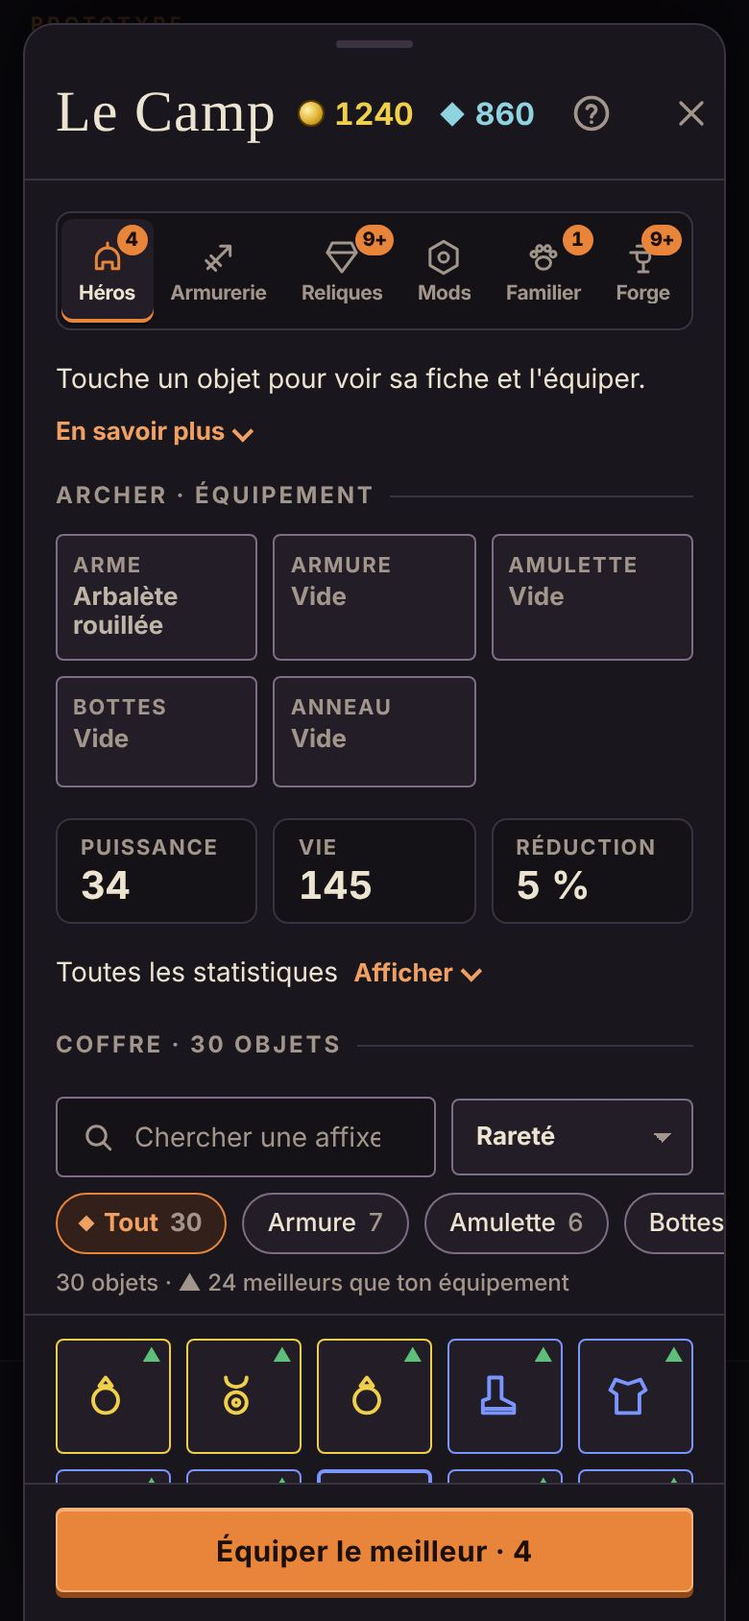
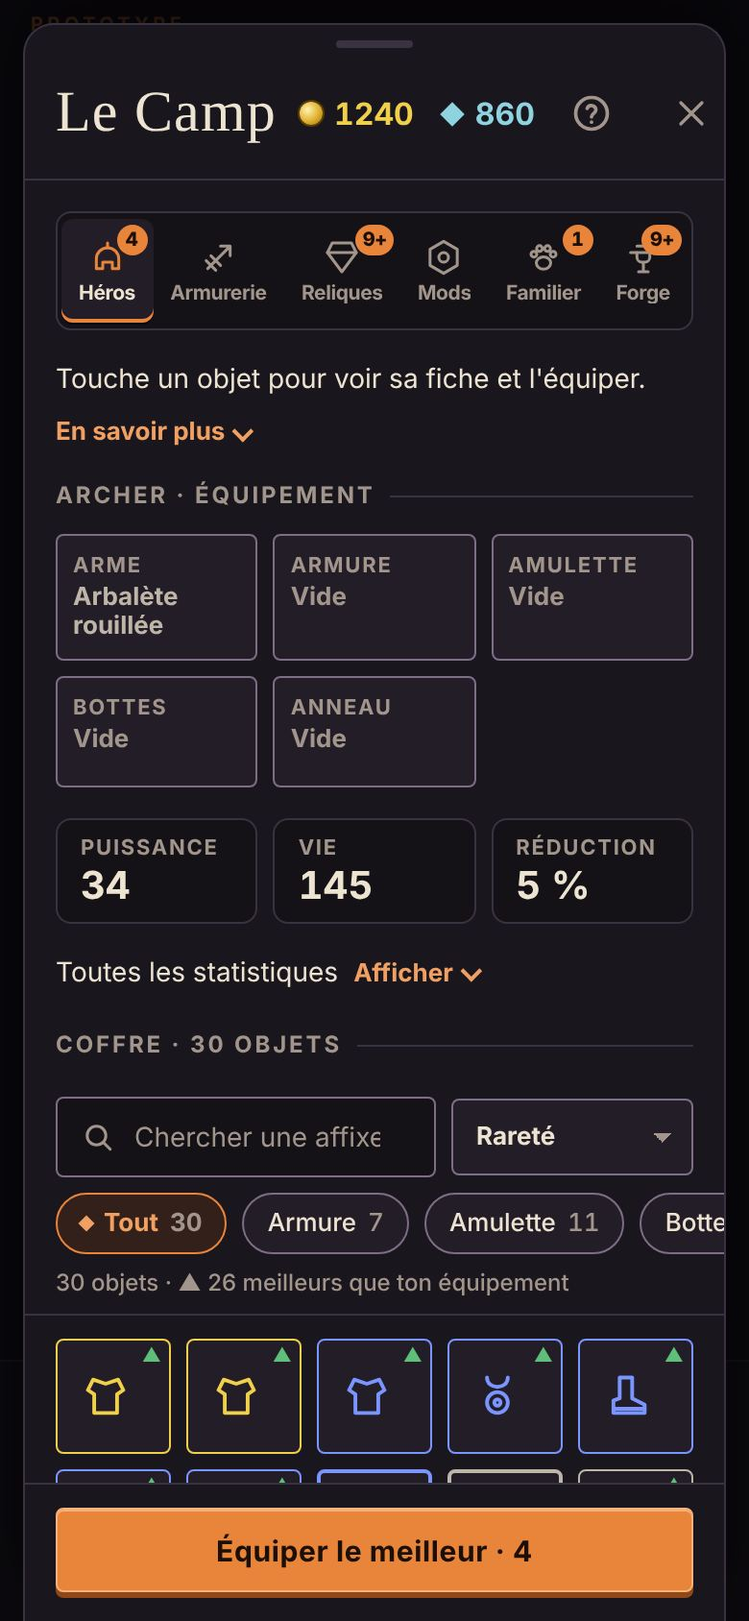
v88-89 : comparaison affixe par affixe ; armes dans le coffre (verrouiller, améliorer, recycler depuis Héros)

diff --git a/js/inv.js b/js/inv.js
@@ -7,19 +7,24 @@ const norm=t=>String(t).normalize('NFD').replace(/[̀-ͯ]/g,'').toLowerCase();
 function invMatch(it,q){if(!q)return true;const n=norm(q);
   if(norm(itemName(it)).includes(n)||norm(it.type||'').includes(n)||norm(SLOT[it.slot]).includes(n)||norm(RAR[it.r].n).includes(n))return true;
   for(const k in it.aff){if(norm(AFF_NAME[k]||k).includes(n)||norm(AFF[k].t(it.aff[k])).includes(n))return true}return false}
-function invList(){return meta.stash.filter(i=>(stF==='all'||i.slot===stF)&&invMatch(i,invQ)).sort(invSortFn[stS]||invSortFn.rar)}
+// Armes possédées non portées, présentées comme des objets du coffre (verrouillables, améliorables, recyclables).
+function invWeapons(){const out=[];for(const c of [heroCls,...Object.keys(CLS).filter(x=>x!==heroCls)])for(const w of WPN[c])if(ownedW(w.id)&&curWid(c)!==w.id)out.push(weaponItem(c,w.id));return out}
+const selOf=it=>it.wid?{wpn:it.wid}:{stash:it.id};
+const isSel=it=>!!campSel&&(it.wid?campSel.wpn===it.wid:campSel.stash===it.id);
+function invList(kind){const st=meta.stash.filter(i=>(stF==='all'||i.slot===stF)&&invMatch(i,invQ));const ws=kind==='affix'||!(stF==='all'||stF==='arme')?[]:invWeapons().filter(i=>invMatch(i,invQ));
+  const nid=i=>i.wid?-1:i.id;const f=invSortFn[stS]||invSortFn.rar;return [...st,...ws].sort(stS==='new'?(a,b)=>nid(b)-nid(a):f)}
 function invCountTxt(list){const nb=list.filter(better).length;return `${list.length} objet${list.length>1?'s':''}${nb?` · ▲ ${nb} meilleur${nb>1?'s':''} que ton équipement`:''}`}
 // Barre collée : recherche, tri, filtres par emplacement, compteur. kind = 'equip' (Héros) ou 'affix' (Forge › Affixes).
-function invToolbar(list,kind){const counts={all:meta.stash.length};for(const it of meta.stash)counts[it.slot]=(counts[it.slot]||0)+1;
+function invToolbar(list,kind){const W=kind==='affix'?[]:invWeapons(),counts={all:meta.stash.length+W.length,arme:W.length};for(const it of meta.stash)counts[it.slot]=(counts[it.slot]||0)+1;
   const ch=(k,l)=>`<button class="cx-chip cx-chip--sm" data-cact="sfilter" data-arg="${k}" aria-pressed="${stF===k}">${l} <span class="n">${counts[k]||0}</span></button>`;
   return `<div class="cx-toolbar"><div class="cx-toolbar__row"><label class="cx-search"><svg viewBox="0 0 24 24"><circle cx="11" cy="11" r="6.5"/><path d="m16 16 4.5 4.5"/></svg><input type="search" data-inv="q" value="${esc(invQ)}" placeholder="Chercher une affixe : vitesse, critique…" aria-label="Chercher dans le coffre" enterkeyhint="search"></label>
     <select class="cx-sort" data-inv="sort" aria-label="Trier le coffre">${Object.keys(SORT_N).map(k=>`<option value="${k}"${stS===k?' selected':''}>${SORT_N[k]}</option>`).join('')}</select></div>
-    <div class="cx-chips">${ch('all','Tout')}${['armure','amulette','bottes','anneau'].map(k=>ch(k,SLOT[k])).join('')}</div>
+    <div class="cx-chips">${ch('all','Tout')}${kind==='affix'?'':ch('arme','Arme')}${['armure','amulette','bottes','anneau'].map(k=>ch(k,SLOT[k])).join('')}</div>
     <span class="cx-count" id="invCount">${invCountTxt(list)}</span></div>`}
 function invGrid(list,kind){if(!list.length)return `<p class="cx-hint" style="margin:0">${meta.stash.length?(invQ?'Aucun objet ne correspond à ta recherche.':'Aucun objet de ce type.'):'Ton coffre est vide. Sors vivant d\'une mission pour y ramener les objets trouvés.'}</p>`;
   if(kind==='affix')return `<div class="cx-cells">${list.map(it=>xfCell('s:'+it.id,it)).join('')}</div>`;
-  return `<div class="grid">${list.map(it=>cellHtml(it,'stash',campSel&&campSel.stash===it.id,better(it))).join('')}</div>`}
-function invRefresh(){const kind=campTab==='forge'?'affix':'equip',list=invList(),g=$('invGrid');if(!g)return;g.innerHTML=invGrid(list,kind);const c=$('invCount');if(c)c.textContent=invCountTxt(list)}
+  return `<div class="grid">${list.map(it=>it.wid?cellHtml(it,'wsel',isSel(it),it.cls===heroCls&&better(it)).replace(`data-wsel="${it.id}"`,`data-wsel="${it.wid}"`):cellHtml(it,'stash',isSel(it),better(it))).join('')}</div>`}
+function invRefresh(){const kind=campTab==='forge'?'affix':'equip',list=invList(kind),g=$('invGrid');if(!g)return;g.innerHTML=invGrid(list,kind);const c=$('invCount');if(c)c.textContent=invCountTxt(list)}
 $('campBody').addEventListener('input',e=>{if(e.target.dataset.inv==='q'){invQ=e.target.value;invRefresh()}});
 $('campBody').addEventListener('change',e=>{if(e.target.dataset.inv==='sort'){stS=e.target.value;drawCamp()}});
 
@@ -30,12 +35,12 @@ function campEquip(){
   const recBtn=!rec.length?'':recyConfirm
     ?`<div class="card"><p class="empty" style="font-size:13px">Recycler ${rec.length} objet${rec.length>1?'s':''} du coffre contre ${ess} essence ? Les objets verrouillés, améliorés, Prime, Sanguins et Abyssaux sont gardés.</p><div class="cx-actions"><button class="cx-btn cx-btn--danger" data-cact="recyall">Tout recycler</button><button class="cx-btn cx-btn--ghost" data-cact="recycancel">Annuler</button></div></div>`
     :`<button class="cx-btn cx-btn--danger cx-btn--sm" data-cact="recyask" style="align-self:flex-start">Tout recycler · ${rec.length} · +${ess} essence</button>`;
-  const list=invList(),pn=Object.keys(bestPlan(eq,meta.stash)).length;
+  const list=invList('equip'),pn=Object.keys(bestPlan(eq,meta.stash)).length;
   return `${campMsg}<section class="cx-section"><h3 class="cx-section__label">${CLS[heroCls].n} · équipement</h3><div class="slots">${slotsHtml(eq,true,campSel&&campSel.slot)}</div>
     ${pn?'':'<p class="cx-hint" style="margin:0">Ton équipement est déjà le meilleur que tu possèdes.</p>'}</section>
     ${keyStats(St)}${cxMore('equip_stats','Toutes les statistiques',`<div class="statgrid">${statRows(St)}</div>`,'Afficher')}
-    <section class="cx-section"><h3 class="cx-section__label">Coffre · ${meta.stash.length} objet${meta.stash.length>1?'s':''}</h3>
-    ${meta.stash.length?invToolbar(list,'equip'):''}<div id="invGrid">${invGrid(list,'equip')}</div>${recBtn}</section>
+    <section class="cx-section"><h3 class="cx-section__label">Coffre · ${meta.stash.length+invWeapons().length} objet${meta.stash.length+invWeapons().length>1?'s':''}</h3>
+    ${meta.stash.length+invWeapons().length?invToolbar(list,'equip'):''}<div id="invGrid">${invGrid(list,'equip')}</div>${recBtn}</section>
     <section class="cx-section"><h3 class="cx-section__label">Fragments de schéma</h3>${fragInv()}</section>`;
 }
 
@@ -49,32 +54,74 @@ function cmpRows(e,it){const a=stats(e),b=stats({...e,[it.slot]:it});
   const f=(v,dc)=>(Math.round(v*10**dc)/10**dc).toLocaleString('fr-FR',{maximumFractionDigits:dc});
   const rows=R.filter(([,x,y,dc])=>Math.abs(y-x)>=.5/10**dc).slice(0,6).map(([l,x,y,dc,u])=>{const d=y-x,up=d>0;return `<div><span>${l}</span><b style="color:${up?'var(--heal)':'var(--blood-ink)'}">${up?'▲ +':'▼ −'}${f(Math.abs(d),dc)}${u}</b></div>`}).join('');
   return rows?`<div class="cx-stats">${rows}</div>`:'<p class="cx-hint" style="margin:0">Aucun changement de statistique.</p>'}
+
+/* ---------- CompareObjet : l'objet choisi face à l'objet équipé du même emplacement, affixe par affixe ---------- */
+let cmpPage=0,cmpKey='',dockMore=false,dockAll=false;
+const BASE_N={dmg:'Dégâts de base',hp:'Vie',crit:'Critique',speed:'Vitesse',dmgPct:'Dégâts'};
+const CMP_PCT=k=>!['hp','regen','burn','multi','pierce','dmg','abWard'].includes(k);
+const cmpV=(k,v)=>v==null?'—':fmtN(v)+(CMP_PCT(k)?' %':'');
+const cmpD=(k,d)=>Math.abs(d)<1e-9?'<span class="d eq">=</span>':`<span class="d ${d>0?'up':'dn'}">${d>0?'▲ +':'▼ −'}${fmtN(Math.abs(d))}${CMP_PCT(k)?' %':''}</span>`;
+const affV=(it,k)=>it&&it.aff[k]!=null?(NOSCALE[k]?it.aff[k]:it.aff[k]*upMul(it.up)):null;
+function cmpObjet(eq,it,heroRows=true){
+  const cur=eq[it.slot];
+  const row=(cls,k,lab,o,n)=>`<div class="cx-cmp__row${cls}"><span class="k">${lab}</span><span class="o">${cmpV(k,o)}</span><span class="n">${cmpV(k,n)}</span>${cmpD(k,(n||0)-(o||0))}</div>`;
+  const bk=it.base.k,bo=cur&&cur.base?cur.base.v*upMul(cur.up):null,bn=it.base.v*upMul(it.up);
+  const base=row(' is-base',bk,BASE_N[bk]||AFF_NAME[bk]||bk,bo,bn);
+  const ka=Object.keys(it.aff),ko=cur?Object.keys(cur.aff):[];
+  const nm=k=>AFF_NAME[k]||k,ab=k=>AFF[k]&&AFF[k].aby?' is-aby':'';
+  const rows=[...ka.filter(k=>ko.includes(k)).map(k=>({h:row(ab(k),k,nm(k),affV(cur,k),affV(it,k))})),
+    ...ka.filter(k=>!ko.includes(k)).map(k=>({h:row(' is-gain'+ab(k),k,nm(k),null,affV(it,k))})),
+    ...ko.filter(k=>!ka.includes(k)).map(k=>({h:row(' is-lost'+ab(k),k,nm(k),affV(cur,k),null),lost:1}))];
+  const so=cur&&cur.seal,sn=it.seal;
+  if(so||sn){if(so&&sn&&so===sn)rows.push({h:`<div class="cx-cmp__row is-seal"><span class="k">${SEALS[sn].n}</span><span class="o">sceau</span><span class="n">sceau</span><span class="d eq">=</span></div>`});
+    else{if(sn)rows.push({h:`<div class="cx-cmp__row is-seal is-gain"><span class="k">${SEALS[sn].n}</span><span class="o">—</span><span class="n">sceau</span><span class="d up">nouveau</span></div>`});
+      if(so)rows.push({h:`<div class="cx-cmp__row is-seal is-lost"><span class="k">${SEALS[so].n}</span><span class="o">sceau</span><span class="n">—</span><span class="d dn">perdu</span></div>`,lost:1})}}
+  const PG=4,pages=Math.max(1,Math.ceil(rows.length/PG));cmpPage=Math.max(0,Math.min(cmpPage,pages-1));
+  const vis=rows.slice(cmpPage*PG,cmpPage*PG+PG),later=rows.slice((cmpPage+1)*PG).filter(r=>r.lost).length;
+  const pager=rows.length>PG?`<div class="cx-cmp__pager"><span>Affixes ${cmpPage*PG+1}–${Math.min(rows.length,cmpPage*PG+PG)} sur ${rows.length}${later?` <em>· ${later} perte${later>1?'s':''} ensuite</em>`:''}</span><div><button class="cx-icon-btn cx-icon-btn--ghost cx-icon-btn--sm" data-cmp="-1" ${cmpPage?'':'disabled'} aria-label="Affixes précédentes">${XSVG.prev}</button><button class="cx-icon-btn cx-icon-btn--ghost cx-icon-btn--sm" data-cmp="1" ${cmpPage<pages-1?'':'disabled'} aria-label="Affixes suivantes">${XSVG.next}</button></div></div>`:'';
+  let h=`<div class="cx-cmp"><p class="cx-cmp__vs" style="margin:0">${cur?`Face à ce que tu portes : <b style="color:${RAR[cur.r].c}">${esc(itemName(cur))}</b> · ${RAR[cur.r].n}${cur.wid?'':` · niv. ${cur.lvl||1}`}`:'Face à : rien de porté ici'}</p>
+    <div class="cx-cmp__rows"><div class="cx-cmp__row is-head"><span>Affixes</span><span>Porté</span><span>Choisi</span><span>Écart</span></div>${base}${vis.map(r=>r.h).join('')}${pager}</div>`;
+  if(heroRows){const a=stats(eq),b=stats({...eq,[it.slot]:it});
+    const rd=(v,dc)=>Math.round(v*10**dc)/10**dc;
+    const H=[['Puissance',dps(a),dps(b),0,''],['Vie',a.hp,b.hp,0,''],['Réduction',a.armor,b.armor,1,' %']].map(([l,x,y,dc,u])=>[l,rd(x,dc),rd(y,dc),dc,u]).filter(([,x,y])=>x!==y);
+    const f=(v,dc)=>(Math.round(v*10**dc)/10**dc).toLocaleString('fr-FR',{maximumFractionDigits:dc});
+    if(H.length)h+=`<div class="cx-cmp__rows"><div class="cx-cmp__row is-head"><span>Ton héros</span><span>Porté</span><span>Choisi</span><span>Écart</span></div>${H.map(([l,x,y,dc,u])=>{const d=y-x;return `<div class="cx-cmp__row"><span class="k">${l}</span><span class="o">${f(x,dc)}${u}</span><span class="n">${f(y,dc)}${u}</span><span class="d ${d>0?'up':'dn'}">${d>0?'▲ +':'▼ −'}${f(Math.abs(d),dc)}${u}</span></div>`}).join('')}</div>`;
+    if(dockAll)h+=cmpRows(eq,it)}
+  return h+'</div>'}
+// Clics de pagination dans n'importe quelle fiche ancrée
+document.addEventListener('click',e=>{const b=e.target.closest('[data-cmp]');if(!b||b.disabled)return;e.stopPropagation();cmpPage+=+b.dataset.cmp;if(!$('camp').hidden)drawCamp();if(!$('bag').hidden)drawBag()},true);
 function campDockHtml(){
   if((campTab==='mods'||campTab==='pets')&&modSel&&meta.mods[modSel]!=null)return modDock(modSel);
   if(campTab!=='equip'||!campSel)return '';
   const eq=curEq();let it=null,key='',worn=false;
-  if(campSel.stash){it=meta.stash.find(i=>i.id===campSel.stash);key='s:'+campSel.stash}
+  if(campSel.wpn){const c=wclsOf(campSel.wpn);if(c&&ownedW(campSel.wpn)){it=weaponItem(c,campSel.wpn);key='w:'+campSel.wpn;if(curWid(heroCls)===campSel.wpn){worn=true}}}
+  else if(campSel.stash){it=meta.stash.find(i=>i.id===campSel.stash);key='s:'+campSel.stash}
   else if(campSel.slot){it=eq[campSel.slot];worn=true;key=campSel.slot==='arme'?'w:'+curWid():'g:'+campSel.slot}
   if(!it)return '';
-  const list=invList(),idx=campSel.stash?list.findIndex(i=>i.id===campSel.stash):-1,r=RAR[it.r];
-  const nav=idx>=0?`<span class="cx-dock__nav"><button class="cx-icon-btn cx-icon-btn--ghost cx-icon-btn--sm" data-cact="dnav" data-arg="-1" ${idx>0?'':'disabled'} aria-label="Objet précédent">${XSVG.prev}</button><span class="cx-count" style="align-self:center">${idx+1} / ${list.length}</span><button class="cx-icon-btn cx-icon-btn--ghost cx-icon-btn--sm" data-cact="dnav" data-arg="1" ${idx<list.length-1?'':'disabled'} aria-label="Objet suivant">${XSVG.next}</button></span>`:'';
+  const list=invList('equip'),idx=(campSel.stash||campSel.wpn)?list.findIndex(isSel):-1,r=RAR[it.r];
+  const nav=idx>=0?`<span class="cx-dock__nav"><button class="cx-icon-btn cx-icon-btn--ghost cx-icon-btn--sm" data-cact="dnav" data-arg="-1" ${idx>0?'':'disabled'} aria-label="Objet précédent">${XSVG.prev}</button><button class="cx-icon-btn cx-icon-btn--ghost cx-icon-btn--sm" data-cact="dnav" data-arg="1" ${idx<list.length-1?'':'disabled'} aria-label="Objet suivant">${XSVG.next}</button></span>`:'';
   const n=it.up||0,c1=n<UP_MAX?upCostRange(n,1):0,k=Math.min(10,UP_MAX-n),ck=k>1?upCostRange(n,k):0;
   const affs=`<ul style="margin:0;padding-left:18px;font-size:14px;line-height:1.35"><li>${baseTxtOf(it.slot,fmtN(it.base.v*upMul(it.up)))}</li>${Object.keys(it.aff).map(kk=>`<li${AFF[kk].aby?' class="abyp"':''}>${AFF[kk].t(NOSCALE[kk]?it.aff[kk]:fmtN(it.aff[kk]*upMul(it.up)))}</li>`).join('')}${it.seal&&SEALS[it.seal]?`<li class="sealp">${sealTxt(it.seal)}</li>`:''}</ul>`;
   const cur=eq[it.slot];
   let main='',more=[];
   const btn=(cls,act,arg,svg,lab,dis)=>`<button class="cx-btn${cls}" data-cact="${act}"${arg!=null?` data-arg="${arg}"`:''} ${dis?'disabled':''}>${svg}${lab}</button>`;
-  if(!worn){main=`<button class="cx-btn cx-btn--primary cx-btn--block" data-cact="equip">Équiper${cur?` · remplace ${esc(itemName(cur))}`:''}</button>`}
-  else if(it.slot==='arme')main=`<button class="cx-btn cx-btn--block" data-cact="toarsenal">Changer d'arme à l'Armurerie</button>`;
+  const other=it.wid&&it.cls!==heroCls,wb=it.wid?bpdef(it.wid):null;
+  if(!worn&&it.wid)main=other?`<p class="cx-hint" style="margin:0">Arme ${deCls(it.cls)} : change de héros pour l'équiper.</p>`:`<button class="cx-btn cx-btn--primary cx-btn--block" data-cact="wequip" data-arg="${it.wid}">Équiper · remplace ${esc(itemName(cur))}</button>`;
+  else if(!worn)main=`<button class="cx-btn cx-btn--primary cx-btn--block" data-cact="equip">Équiper${cur?` · remplace ${esc(itemName(cur))}`:''}</button>`;
   if(n<UP_MAX)more.push(btn(' cx-btn--cost','upg',1,XSVG.up,`Améliorer +1 <span class="cx-price ess"><i class="cx-ess"></i>${c1}</span>`,meta.essence<c1));
   if(n<UP_MAX&&k>1)more.push(btn(' cx-btn--cost','upg',k,XSVG.up,`+${k} <span class="cx-price ess"><i class="cx-ess"></i>${ck}</span>`,meta.essence<ck));
-  if(it.slot!=='arme')more.push(btn('','lock',null,XSVG.lock,it.lock?'Déverrouiller':'Verrouiller'));
+  more.push(btn('','lock',null,XSVG.lock,it.lock?'Déverrouiller':'Verrouiller'));
   if(worn&&it.slot!=='arme')more.push(btn('','unequip',null,XSVG.out,'Retirer au coffre'));
   if(key[0]!=='w'&&Object.keys(it.aff).length)more.push(btn('','xftake',key,XSVG.take,'Prendre une affixe',it.lock));
   more.push(btn('','xfrecv',key,XSVG.take,'Recevoir une affixe'));
-  if(!worn)more.push(btn(' cx-btn--danger','recycle',null,XSVG.recy,`Recycler · +${recyGain(it)} essence${primeBp(it)?' · 1 fragment':''}`,it.lock));
-  return `<div class="cx-dock__head">${nav}<h3 class="cx-dock__title" style="color:${r.c}">${esc(itemName(it))}${it.lock?` <span class="lockchip">${LOCK_SVG}</span>`:''}</h3><button class="cx-icon-btn cx-icon-btn--ghost cx-icon-btn--sm" data-cact="dclose" aria-label="Fermer la fiche">${XSVG.x}</button></div>
-    <span class="cx-dock__meta">${r.n} · ${SLOT[it.slot]}${it.wid?' · fabriquée':` · niveau ${it.lvl}`}${worn?' · porté':cur?'':' · emplacement vide'}</span>
-    ${affs}${worn?'':cmpRows(eq,it)}${main}<div class="cx-dock__more">${more.join('')}</div>${it.lock&&!worn?'<p class="cx-hint" style="margin:0">Verrouillé : ni recyclé, ni utilisé comme source d\'affixe.</p>':''}`;
+  if(!worn&&!it.wid)more.push(btn(' cx-btn--danger','recycle',null,XSVG.recy,`Recycler · +${recyGain(it)} essence${primeBp(it)?' · 1 fragment':''}`,it.lock));
+  if(!worn&&it.wid&&wb&&wb.bp>0)more.push(btn(' cx-btn--danger','wrecyq',it.wid,XSVG.recy,`Recycler · +${wRecyEss(wb)} essence · 1 fragment`,it.lock));
+  const sk=key;if(sk!==cmpKey){cmpKey=sk;cmpPage=0}
+  return `<div class="cx-dock__head"><h3 class="cx-dock__title" style="color:${r.c}">${esc(itemName(it))}${it.lock?` <span class="lockchip">${LOCK_SVG}</span>`:''}</h3>${nav}<button class="cx-icon-btn cx-icon-btn--ghost cx-icon-btn--sm" data-cact="dclose" aria-label="Fermer la fiche">${XSVG.x}</button></div>
+    <span class="cx-dock__meta">${r.n} · ${SLOT[it.slot]}${it.wid?' · fabriquée':` · niveau ${it.lvl}`}${n?` · amélioré +${n}`:''}${worn?' · <b style="color:var(--heal)">Porté</b>':''}${idx>=0?` · ${idx+1} / ${list.length}`:''}</span>
+    ${worn||other?affs:cmpObjet(eq,it)}${main}
+    <div class="cx-actions" style="gap:6px"><button class="cx-btn cx-btn--sm" data-cact="dmore" aria-expanded="${dockMore}">${dockMore?'Moins d\'actions':'Plus d\'actions'}</button>${worn?'':`<button class="cx-btn cx-btn--sm" data-cact="dall" aria-pressed="${dockAll}">${dockAll?'Masquer les statistiques':'Toutes les statistiques'}</button>`}</div>
+    ${dockMore?`<div class="cx-dock__more">${more.join('')}</div>`:''}${it.lock&&!worn?'<p class="cx-hint" style="margin:0">Verrouillé : ni recyclé, ni utilisé comme source d\'affixe.</p>':''}`;
 }
 
 /* ---------- Parcours affixe : départ depuis la fiche, puce de retour ---------- */

diff --git a/js/camp.js b/js/camp.js
@@ -58,7 +58,7 @@ function bpCard(b){
   const cost=isW?Math.round(b.bp/2):b.craft,ready=pc.every(x=>x>0);
   const baseTxt=isW?`${b.dmg} dégâts de base`:baseTxtOf(b.slot,b.base);
   let foot;
-  const canRecy=own&&!eq&&b.bp>0;
+  const canRecy=own&&!eq&&b.bp>0&&!(meta.wlock&&meta.wlock[b.id]);
   if(own)foot=(eq?`<span class="owned">Équipée${mine?'':' · '+CLS[b.cls].n}</span>`:mine?`<button class="btn main" data-cact="wequip" data-arg="${b.id}">Équiper</button>`:`<span class="owned">Fabriquée · ${CLS[b.cls].n}</span>`)
     +(canRecy?(wRecy===b.id?`<div class="card" style="width:100%;box-sizing:border-box"><p style="margin:0;font-size:14px">Recycler <b style="color:${r.c}">${b.n}</b> ? Tu récupères <b>${wRecyEss(b)} essence</b> et <b>1 fragment</b> de son schéma. L'arme, son niveau d'amélioration et ses affixes ajoutées sont perdus ; ses mods restent dans ta collection.</p><div class="actions"><button class="btn danger" data-cact="wrecyok" data-arg="${b.id}">Recycler</button><button class="btn" data-cact="wrecyno">Annuler</button></div></div>`
       :`<button class="btn danger" data-cact="wrecy" data-arg="${b.id}">Recycler · <span class="essi"></span>${wRecyEss(b)} · 1 fragment</button>`):'');
@@ -76,7 +76,7 @@ function craftPlan(){const ids=[...WPN[heroCls],...Object.keys(WPN).filter(c=>c!
   for(const id of ids){const b=bpdef(id);if(b.kind==='arme'&&(ownedW(id)||b.bp===0))continue;
     for(let n=0;n<(b.kind==='arme'?1:20);n++){const pc=parts[id],c=bpCost(b);if(!pc.every(x=>x>0)||gold<c)break;parts[id]=pc.map(x=>x-1);gold-=c;plan.push(id)}}
   return {plan,cost:meta.gold-gold}}
-function recyPlan(){const ws=Object.keys(WPN).flatMap(c=>WPN[c].filter(w=>w.bp>0&&ownedW(w.id)&&(meta.wpn[c]||WPN[c][0].id)!==w.id));
+function recyPlan(){const ws=Object.keys(WPN).flatMap(c=>WPN[c].filter(w=>w.bp>0&&ownedW(w.id)&&!(meta.wlock&&meta.wlock[w.id])&&(meta.wpn[c]||WPN[c][0].id)!==w.id));
   const pr=meta.stash.filter(it=>primeBp(it)&&!it.lock);
   return {ws,pr,ess:ws.reduce((a,w)=>a+wRecyEss(bpdef(w.id)),0)+pr.reduce((a,it)=>a+primeRecyEss(it),0)}}
 function craftOne(id){const b=bpdef(id),pc=meta.parts[id],cost=bpCost(b);if(!pc||!pc.every(x=>x>0)||meta.gold<cost)return false;if(b.kind==='arme'&&ownedW(id))return false;
@@ -308,7 +308,7 @@ function campAffix(){
   h+=`<section class="cx-section"><h3 class="cx-section__label">Équipé · ${CLS[heroCls].n}</h3><div class="cx-slots">${xfSlot('w:'+eqW,weaponItem(heroCls,eqW),'Arme')}${['armure','amulette','bottes','anneau'].map(k=>xfSlot('g:'+k,meta.gear[k],SLOT[k])).join('')}</div></section>`;
   const ow=Object.keys(WPN).flatMap(c=>WPN[c].filter(w=>ownedW(w.id)&&w.id!==eqW).map(w=>[c,w]));
   if(ow.length)h+=`<section class="cx-section"><h3 class="cx-section__label">Autres armes</h3><div class="cx-slots">${ow.map(([c,w])=>xfSlot('w:'+w.id,weaponItem(c,w.id),`Arme · ${CLS[c].n}`,true)).join('')}</div></section>`;
-  {const list=invList();h+=`<section class="cx-section"><h3 class="cx-section__label">Coffre · ${meta.stash.length} objet${meta.stash.length>1?'s':''}</h3>${meta.stash.length?invToolbar(list,'affix'):''}<div id="invGrid">${invGrid(list,'affix')}</div></section>`}
+  {const list=invList('affix');h+=`<section class="cx-section"><h3 class="cx-section__label">Coffre · ${meta.stash.length} objet${meta.stash.length>1?'s':''}</h3>${meta.stash.length?invToolbar(list,'affix'):''}<div id="invGrid">${invGrid(list,'affix')}</div></section>`}
   h+=affFinder();h+=cxMore('wish','Alertes de butin : un flash quand une affixe recherchée tombe.',wishSection(),'Régler');
   return h;
 }
@@ -411,6 +411,7 @@ function campClick(b){
   const d=b.dataset;
   if(d.slot)campSel={slot:d.slot};
   else if(d.stash)campSel={stash:+d.stash};
+  else if(d.wsel)campSel={wpn:d.wsel};
   else if(d.cact){
     const a=d.cact,arg=d.arg;
     if(!a.startsWith('recy'))recyConfirm=false;if(a!=='ropen')campMsg='';
@@ -427,6 +428,7 @@ function campClick(b){
     else if(a==='sfilter'){stF=arg;stP=0}
     else if(a==='ssort'){stS=arg;stP=0}
     else if(a==='spage'){stP+=+arg}
+    else if(a==='lock'&&campSel&&(campSel.wpn||campSel.slot==='arme')){const wid=campSel.wpn||curWid();meta.wlock=meta.wlock||{};meta.wlock[wid]=!meta.wlock[wid];const on=meta.wlock[wid];cxUndo(`${esc(wdef(wid).n)} ${on?'verrouillée':'déverrouillée'}`,()=>{meta.wlock[wid]=!on})}
     else if(a==='lock'){const it=campSel&&campSel.stash?meta.stash.find(i=>i.id===campSel.stash):campSel&&campSel.slot?meta.gear[campSel.slot]:null;if(it){it.lock=!it.lock;cxUndo(`${esc(itemName(it))} ${it.lock?'verrouillé':'déverrouillé'}`,()=>{it.lock=!it.lock})}}
     else if(a==='recyask')recyConfirm=true;
     else if(a==='recycancel')recyConfirm=false;
@@ -437,23 +439,30 @@ function campClick(b){
       if(pb)fi=giveFrag(pb);campSel=nx?{stash:nx.id}:null;
       cxUndo(`<b>${esc(itemName(it))}</b> recyclé · +${e} essence${pb?` · fragment ${bpdef(pb).frag[fi]}`:''}`,()=>{meta.stash.push(it);meta.essence-=e;if(pb&&fi>=0&&meta.parts[pb])meta.parts[pb][fi]=Math.max(0,meta.parts[pb][fi]-1);campSel={stash:it.id}})}}
     else if(a==='upg'){const k=+arg;let it=null,isW=false,wid=null;
-      if(campSel&&campSel.slot==='arme'){isW=true;wid=meta.wpn[heroCls]&&ownedW(meta.wpn[heroCls])?meta.wpn[heroCls]:WPN[heroCls][0].id}
+      if(campSel&&campSel.wpn){isW=true;wid=campSel.wpn}
+      else if(campSel&&campSel.slot==='arme'){isW=true;wid=meta.wpn[heroCls]&&ownedW(meta.wpn[heroCls])?meta.wpn[heroCls]:WPN[heroCls][0].id}
       else if(campSel&&campSel.slot)it=meta.gear[campSel.slot];else if(campSel&&campSel.stash)it=meta.stash.find(i=>i.id===campSel.stash);
       const n=isW?(meta.wlv[wid]||0):it?(it.up||0):null;
       if(n!==null&&n<UP_MAX){const kk=Math.min(k,UP_MAX-n),c=upCostRange(n,kk);if(meta.essence>=c){meta.essence-=c;if(isW)meta.wlv[wid]=n+kk;else it.up=n+kk;toast(`Amélioré à +${n+kk}`)}}}
     else if(a==='unequip'){const s=campSel.slot,it=meta.gear[s];if(it){meta.stash.push(it);meta.gear[s]=null;campSel={stash:it.id}}}
     else if(a==='toarsenal'){campTab='arsenal';campSel=null}
-    else if(a==='wequip'){if(ownedW(arg))meta.wpn[heroCls]=arg}
+    else if(a==='wequip'){if(ownedW(arg)&&wclsOf(arg)===heroCls){meta.wpn[heroCls]=arg;if(campTab==='equip')campSel={slot:'arme'}}}
     else if(a==='arsv'){arsView=arg}
     else if(a==='fsub'){forgeSub=arg;campSel=null}
     else if(a==='dclose'){campSel=null}
-    else if(a==='dnav'){const L=invList(),i=L.findIndex(x=>campSel&&x.id===campSel.stash),n=L[i+(+arg)];if(n)campSel={stash:n.id}}
+    else if(a==='dmore'){dockMore=!dockMore}
+    else if(a==='dall'){dockAll=!dockAll}
+    else if(a==='dnav'){const L=invList('equip'),i=L.findIndex(isSel),n=L[i+(+arg)];if(n)campSel=selOf(n)}
     else if(a==='xftake'||a==='xfrecv'){const sc=$('campBody').parentElement.scrollTop;campBack={tab:campTab,sel:campSel,scroll:sc,label:{equip:'Héros',arsenal:'Armurerie'}[campTab]||'Héros',mode:a==='xfrecv'?'recv':'take'};
       xf=a==='xftake'?{src:arg,k:'',dst:'',rep:'',pick:'dst'}:{src:'',k:'',dst:arg,rep:'',pick:'src'};campTab='forge';forgeSub='affix';campSel=null;drawCamp();$('campBody').parentElement.scrollTop=0;return}
     else if(a==='goback'){const B=campBack;campBack=null;if(B){campTab=B.tab;campSel=B.sel;drawCamp();$('campBody').parentElement.scrollTop=B.scroll||0;return}}
     else if(a==='wrecy'){wRecy=arg}
+    else if(a==='wrecyq'){const b=bpdef(arg);if(b&&ownedW(arg)&&b.bp>0&&!(meta.wlock&&meta.wlock[arg])&&(meta.wpn[b.cls]||WPN[b.cls][0].id)!==arg){const L=invList('equip'),li=L.findIndex(isSel),nx=L[li+1]||L[li-1];
+      const e=wRecyEss(b),sv={lv:meta.wlv[arg],af:meta.waff&&meta.waff[arg],fz:meta.wfz&&meta.wfz[arg]};delete meta.built[arg];delete meta.wlv[arg];if(meta.waff)delete meta.waff[arg];if(meta.wfz)delete meta.wfz[arg];meta.essence+=e;const fi=giveFrag(arg);
+      campSel=nx&&!(nx.wid===arg)?selOf(nx):null;
+      cxUndo(`<b>${esc(b.n)}</b> recyclée · +${e} essence · fragment ${b.frag[fi]}`,()=>{meta.built[arg]=true;if(sv.lv)meta.wlv[arg]=sv.lv;if(sv.af){meta.waff=meta.waff||{};meta.waff[arg]=sv.af}if(sv.fz){meta.wfz=meta.wfz||{};meta.wfz[arg]=sv.fz}meta.essence-=e;if(meta.parts[arg])meta.parts[arg][fi]=Math.max(0,meta.parts[arg][fi]-1);campSel={wpn:arg}})}}
     else if(a==='wrecyno'){wRecy=null}
-    else if(a==='wrecyok'){const b=bpdef(arg);if(b&&ownedW(arg)&&b.bp>0&&(meta.wpn[b.cls]||WPN[b.cls][0].id)!==arg){const e=wRecyEss(b);delete meta.built[arg];delete meta.wlv[arg];if(meta.waff)delete meta.waff[arg];meta.essence+=e;const i=giveFrag(arg);
+    else if(a==='wrecyok'){const b=bpdef(arg);if(b&&ownedW(arg)&&b.bp>0&&!(meta.wlock&&meta.wlock[arg])&&(meta.wpn[b.cls]||WPN[b.cls][0].id)!==arg){const e=wRecyEss(b);delete meta.built[arg];delete meta.wlv[arg];if(meta.waff)delete meta.waff[arg];meta.essence+=e;const i=giveFrag(arg);
       toast(`<b style="color:${RAR[b.r].c}">${b.n}</b> recyclée : +${e} essence et le fragment ${b.frag[i]}`)}wRecy=null}
     else if(a==='craftask'){arsAsk=arsAsk==='craft'?null:'craft'}
     else if(a==='arecyask'){arsAsk=arsAsk==='recy'?null:'recy'}

diff --git a/aide/index.html b/aide/index.html
@@ -343,7 +343,10 @@ details.more .tbl{margin:0 14px 14px}
     <h2><small>Camp · onglet 1</small>Héros et coffre</h2>
     <p>Le Camp regroupe toute la progression permanente en six onglets : Héros, Armurerie, Reliques, Mods, Familier et Forge (avec les sous-onglets Améliorations, Affixes et Sceaux). Chaque onglet s'ouvre sur une phrase qui dit quoi faire ; « En savoir plus » déplie les règles. Une pastille orange signale quelque chose à faire. L'action principale de l'onglet (Équiper le meilleur, Tout équiper, Transférer) reste en bas de la feuille. Le bouton <b>?</b> ouvre ce guide à la bonne section.</p>
     <p>L'onglet <b>Héros</b> montre tes 5 emplacements, trois chiffres clés (Puissance, Vie, Réduction ; « Toutes les statistiques » déplie le reste), ton <b>coffre</b> et, en bas, le <b>Prestige</b>. Le coffre a une barre collée en haut : <b>recherche</b> (dans les noms et les affixes : « vitesse », « critique »…), <b>tri</b> (rareté, amélioration, niveau, récents), filtres par emplacement et un compteur des objets meilleurs que ton équipement (▲). La grille défile d'un bloc, sans pages. Filtre, tri et recherche sont partagés avec Forge › Affixes.</p>
-    <p>Toucher un objet ouvre sa <b>fiche ancrée en bas</b>, sans fermer la grille : ‹ et › passent à l'objet précédent ou suivant, la comparaison ▲ / ▼ montre ce qui change, et le bouton principal dit ce qu'il remplace (« Équiper · remplace Grèves »). La fiche propose aussi :</p>
+    <p>Toucher un objet ouvre sa <b>fiche ancrée en bas</b>, sans fermer la grille : ‹ et › passent à l'objet précédent ou suivant, et le bouton principal dit ce qu'il remplace (« Équiper · remplace Grèves »).</p>
+    <p>La fiche <b>compare l'objet à celui que tu portes sur le même emplacement</b>, affixe par affixe, en quatre colonnes : Affixes, Porté, Choisi, Écart (▲ en vert, ▼ en rouge). La statistique de base vient toujours en tête, puis les affixes communes aux deux objets, celles que tu gagnes (« + nouvelle ») et celles que tu perds (valeur barrée, « − perdue »). Les valeurs tiennent compte des améliorations. Au-delà de 4 affixes, ‹ › font défiler la liste (« Affixes 1–4 sur 6 ») et la barre prévient s'il reste des pertes plus loin. Dessous, « Ton héros » montre l'effet sur la Puissance, la Vie et la Réduction ; « Toutes les statistiques » ajoute le reste. Un objet que tu portes est marqué « Porté », sans comparaison. La Pause utilise la même fiche pour le butin de la partie.</p>
+    <p>Tes <b>armes</b> sont dans le coffre comme le reste (filtre « Arme ») : toutes celles que tu possèdes et ne portes pas, de chaque héros. Elles se comparent à l'arme portée, s'équipent, se verrouillent, s'améliorent, reçoivent une affixe et se recyclent depuis leur fiche, comme une armure ou un anneau. Une arme d'un autre héros s'affiche, mais s'équipe en changeant de héros. Une arme verrouillée n'est recyclée ni depuis sa fiche, ni par « Tout recycler » de l'Armurerie.</p>
+    <p>« Plus d'actions » déplie le reste :</p>
     <ul>
       <li><b>Améliorer</b> (+1 ou +10) : chaque objet monte de +0 à +100 avec de l'essence, chaque niveau ajoute 2 % de ses valeurs (×3 à +100).</li>
       <li><b>Verrouiller</b> : le cadenas protège un objet du recyclage et du transfert d'affixe.</li>
@@ -652,7 +655,7 @@ details.more .tbl{margin:0 14px 14px}
 
 </main>
 
-<footer class="wrap">Crypte des Cendres · guide à jour de la version 87 du jeu. <a href="../index.html">Retour au jeu</a></footer>
+<footer class="wrap">Crypte des Cendres · guide à jour de la version 89 du jeu. <a href="../index.html">Retour au jeu</a></footer>
 
 <dialog id="zoom" aria-label="Capture agrandie"><button type="button" id="zoomX" aria-label="Fermer">×</button><img id="zoomImg" alt=""></dialog>
 

diff --git a/css/game.css b/css/game.css
@@ -1075,3 +1075,33 @@ body:has(#over:not([hidden])) .toast,body:has(#extract:not([hidden])) .toast{dis
 .cx-screen__foot>*{max-width:528px;margin-left:auto!important;margin-right:auto!important;width:100%}
 #clsDesc .cx-more{margin-top:var(--space-2)}
 body:has(#camp:not([hidden])) .toast,body:has(#bag:not([hidden])) .toast{top:calc(env(safe-area-inset-top,0px) + 10px);bottom:auto}
+/* ---------- CompareObjet (design system) ---------- */
+.cx-cmp{display:flex; flex-direction:column; gap:var(--space-2)}
+.cx-cmp__rows{display:flex; flex-direction:column; border:1px solid var(--line); border-radius:var(--radius-sm); overflow:hidden}
+.cx-cmp__row{display:grid; grid-template-columns:minmax(0,1fr) 54px 54px 64px; align-items:center; gap:6px; padding:5px var(--space-2); font:400 13px/1.25 var(--font-body); border-top:1px solid var(--line); font-variant-numeric:tabular-nums}
+.cx-cmp__row:first-child{border-top:0}
+.cx-cmp__row.is-head{font:700 10px/1.2 var(--font-body); letter-spacing:.08em; text-transform:uppercase; color:var(--muted); background:var(--sunk)}
+.cx-cmp__row>span:nth-child(n+2){text-align:right}
+.cx-cmp__row .k{color:var(--ink); min-width:0; overflow-wrap:anywhere}
+.cx-cmp__row .o{color:var(--muted)}
+.cx-cmp__row .n{color:var(--ink); font-weight:700}
+.cx-cmp__row .d{font-weight:700}
+.cx-cmp__row .up{color:var(--heal)} .cx-cmp__row .dn{color:var(--blood-ink)} .cx-cmp__row .eq{color:var(--muted)}
+.cx-cmp__row.is-lost .o{text-decoration:line-through}
+.cx-cmp__row.is-lost .k::after{content:"− perdue"; display:block; font-size:11px; color:var(--blood-ink); font-weight:700}
+.cx-cmp__row.is-gain .k::after{content:"+ nouvelle"; display:block; font-size:11px; color:var(--heal); font-weight:700}
+.cx-cmp__vs{display:block; font:400 13px/1.3 var(--font-body); color:var(--muted)}
+.cx-cmp__vs b{font-weight:700}
+.cx-cmp__row.is-base{background:var(--sunk)}
+.cx-cmp__row.is-base .k::after{content:"base"; display:block; font-size:11px; color:var(--muted); font-weight:700}
+.cx-cmp__row.is-aby .k{color:#cdb2ff}
+.cx-cmp__row.is-aby .k::before{content:"◈ "; color:#b07cff}
+.cx-cmp__row.is-seal .k{color:#ffb3ea}
+.cx-cmp__row.is-seal .k::before{content:"✦ "; color:#ff5fd2}
+.cx-cmp__pager{display:flex; align-items:center; justify-content:space-between; gap:var(--space-2); padding:2px 2px 2px var(--space-2); border-top:1px solid var(--line); background:var(--sunk)}
+.cx-cmp__pager span{font:700 12px/1.2 var(--font-body); color:var(--muted); font-variant-numeric:tabular-nums}
+.cx-cmp__pager span em{font-style:normal; color:var(--blood-ink)}
+.cx-cmp__pager div{display:flex; gap:2px}
+.cx-cmp__row .d.up,.cx-cmp__row .d.dn,.cx-cmp__row .d.eq{display:block;border:0;padding:0;margin:0;background:none;box-shadow:none;border-radius:0;grid-template-columns:none;min-height:0;white-space:nowrap}
+.cx-dock .cx-btn--block{white-space:normal;line-height:1.2;padding-top:8px;padding-bottom:8px;text-align:center}
+.cx-cmp__row{grid-template-columns:minmax(0,1fr) 50px 54px 72px}

diff --git a/js/ui.js b/js/ui.js
@@ -76,9 +76,8 @@ function drawBag(){
   // fiche ancrée : objet du butin choisi (prioritaire sur le détail d'un mod)
   if(runSel){const it=L.items.find(i=>i.id===runSel),cur=G.eq[it.slot];
     $('bagDock').innerHTML=`<div class="cx-dock__head"><h3 class="cx-dock__title" style="color:${RAR[it.r].c}">${esc(itemName(it))}</h3><button class="cx-icon-btn cx-icon-btn--ghost cx-icon-btn--sm" data-bag="close" aria-label="Fermer le détail"><svg viewBox="0 0 24 24"><path d="M6 6l12 12M18 6 6 18"/></svg></button></div>
-      <span class="cx-dock__meta">${RAR[it.r].n} · ${SLOT[it.slot]} · niveau ${it.lvl} · ${cur?`remplace ${esc(itemName(cur))}`:'remplace un emplacement vide'}</span>
-      <ul style="margin:0;padding-left:18px;font-size:14px;line-height:1.35"><li>${baseTxtOf(it.slot,fmtN(it.base.v))}</li>${Object.keys(it.aff).map(k=>`<li>${AFF[k].t(NOSCALE[k]?it.aff[k]:fmtN(it.aff[k]))}</li>`).join('')}</ul>
-      ${typeof cmpRows==='function'?cmpRows(G.eq,it):''}<button class="cx-btn cx-btn--primary cx-btn--block" data-bag="equip" data-arg="${it.id}" style="margin-top:4px">Équiper maintenant</button><p class="cx-hint" style="margin:0">Un objet équipé est gardé même si tu meurs. L'ancien part au coffre du Camp.</p>`;
+      <span class="cx-dock__meta">${RAR[it.r].n} · ${SLOT[it.slot]} · niveau ${it.lvl}</span>
+      ${(()=>{const k='r:'+it.id;if(k!==cmpKey){cmpKey=k;cmpPage=0}return cmpObjet(G.eq,it)})()}<button class="cx-btn cx-btn--primary cx-btn--block" data-bag="equip" data-arg="${it.id}" style="margin-top:4px">Équiper maintenant${cur?` · remplace ${esc(itemName(cur))}`:''}</button><p class="cx-hint" style="margin:0">Un objet équipé est gardé même si tu meurs. L'ancien part au coffre du Camp.</p>`;
     $('bagDock').hidden=false;$('bagFoot').hidden=true}
   else if(!modSel){$('bagDock').hidden=true;$('bagFoot').hidden=false}
 }

diff --git a/js/nav.js b/js/nav.js
@@ -32,11 +32,11 @@ addEventListener('keydown',e=>{
   const tabs=[...document.querySelectorAll('#camp .cx-tabs--icons .cx-tab')];
   if(/^[1-9]$/.test(e.key)&&tabs[+e.key-1]){tabs[+e.key-1].click();e.preventDefault();return}
   if(e.key==='/'){const s=document.querySelector('#campBody [data-inv="q"]');if(s){s.focus();e.preventDefault()}return}
-  if(campTab==='equip'){const L=invList();if(!L.length)return;const i=campSel&&campSel.stash?L.findIndex(x=>x.id===campSel.stash):-1;
+  if(campTab==='equip'){const L=invList('equip');if(!L.length)return;const i=L.findIndex(isSel);
     const g=document.querySelector('#invGrid .grid'),cols=g?Math.max(1,getComputedStyle(g).gridTemplateColumns.split(' ').length):1;
     let n=null;
     if(e.key==='['||e.key==='ArrowLeft')n=Math.max(0,i-1);else if(e.key===']'||e.key==='ArrowRight')n=Math.min(L.length-1,i+1);
     else if(e.key==='ArrowDown')n=i<0?0:Math.min(L.length-1,i+cols);else if(e.key==='ArrowUp')n=i<0?0:Math.max(0,i-cols);
     else if(e.key==='Enter'&&i>=0){const b=document.querySelector('#campDock [data-cact="equip"]');if(b){b.click();e.preventDefault()}return}
-    if(n!=null){campSel={stash:L[n].id};drawCamp();const c=document.querySelector(`#invGrid [data-stash="${L[n].id}"]`);if(c)c.scrollIntoView({block:'nearest'});e.preventDefault();e.stopImmediatePropagation()}}
+    if(n!=null){campSel=selOf(L[n]);drawCamp();const c=document.querySelector(L[n].wid?`#invGrid [data-wsel="${L[n].wid}"]`:`#invGrid [data-stash="${L[n].id}"]`);if(c)c.scrollIntoView({block:'nearest'});e.preventDefault();e.stopImmediatePropagation()}}
 },true);

diff --git a/js/data.js b/js/data.js
@@ -427,7 +427,8 @@ const upInvested=n=>upCostRange(0,n||0);
 const fmtN=x=>(Math.round(x*10)/10).toLocaleString('fr-FR');
 const itemName=it=>it.name+(it.up?` +${it.up}`:'');
 function weaponItem(c,id){const w=(id&&wdef(id)&&ownedW(id))?wdef(id):wdef(WPN[c][0].id),af={...w.aff,...(meta.waff[w.id]||{})};for(const k in af)if(af[k]==null)delete af[k];
-  return {id:'w_'+w.id,wid:w.id,slot:'arme',r:w.r,lvl:1,base:{k:'dmg',v:w.dmg},aff:af,name:w.n,type:'Arme',up:meta.wlv[w.id]||0}}
+  return {id:'w_'+w.id,wid:w.id,cls:wclsOfD(w.id),slot:'arme',r:w.r,lvl:1,base:{k:'dmg',v:w.dmg},aff:af,name:w.n,type:'Arme',up:meta.wlv[w.id]||0,lock:!!(meta.wlock&&meta.wlock[w.id])}}
+const wclsOfD=id=>Object.keys(WPN).find(c=>WPN[c].some(w=>w.id===id));
 const curEq=()=>({arme:weaponItem(heroCls,meta.wpn[heroCls]),armure:meta.gear.armure||null,amulette:meta.gear.amulette||null,bottes:meta.gear.bottes||null,anneau:meta.gear.anneau||null});
 function rollPart(){
   // En mission, seuls les schémas magiques et rares de l'arme du héros tombent ; légendaires et Prime : reliques Abysse uniquement.

diff --git a/sw.js b/sw.js
@@ -1,5 +1,5 @@
 // Crypte des Cendres — cache hors ligne. Change VERSION à chaque mise à jour du jeu.
-const VERSION = 'crypte-v87';
+const VERSION = 'crypte-v89';
 const CORE = ['./', './index.html', './manifest.webmanifest', './css/game.css', './js/data.js', './js/game.js', './js/render.js', './js/ui.js', './js/camp.js', './js/inv.js', './js/seal.js', './js/pet.js', './js/settings.js', './js/audio.js', './js/net.js', './js/main.js', './js/update.js', './js/nav.js', './icons/icon-192.png', './icons/icon-512.png', './icons/maskable-512.png', './icons/apple-touch-icon.png'];
 const EXTERNAL = ['https://cdn.jsdelivr.net/npm/pixi.js@7.4.2/dist/pixi.min.js'];
 
